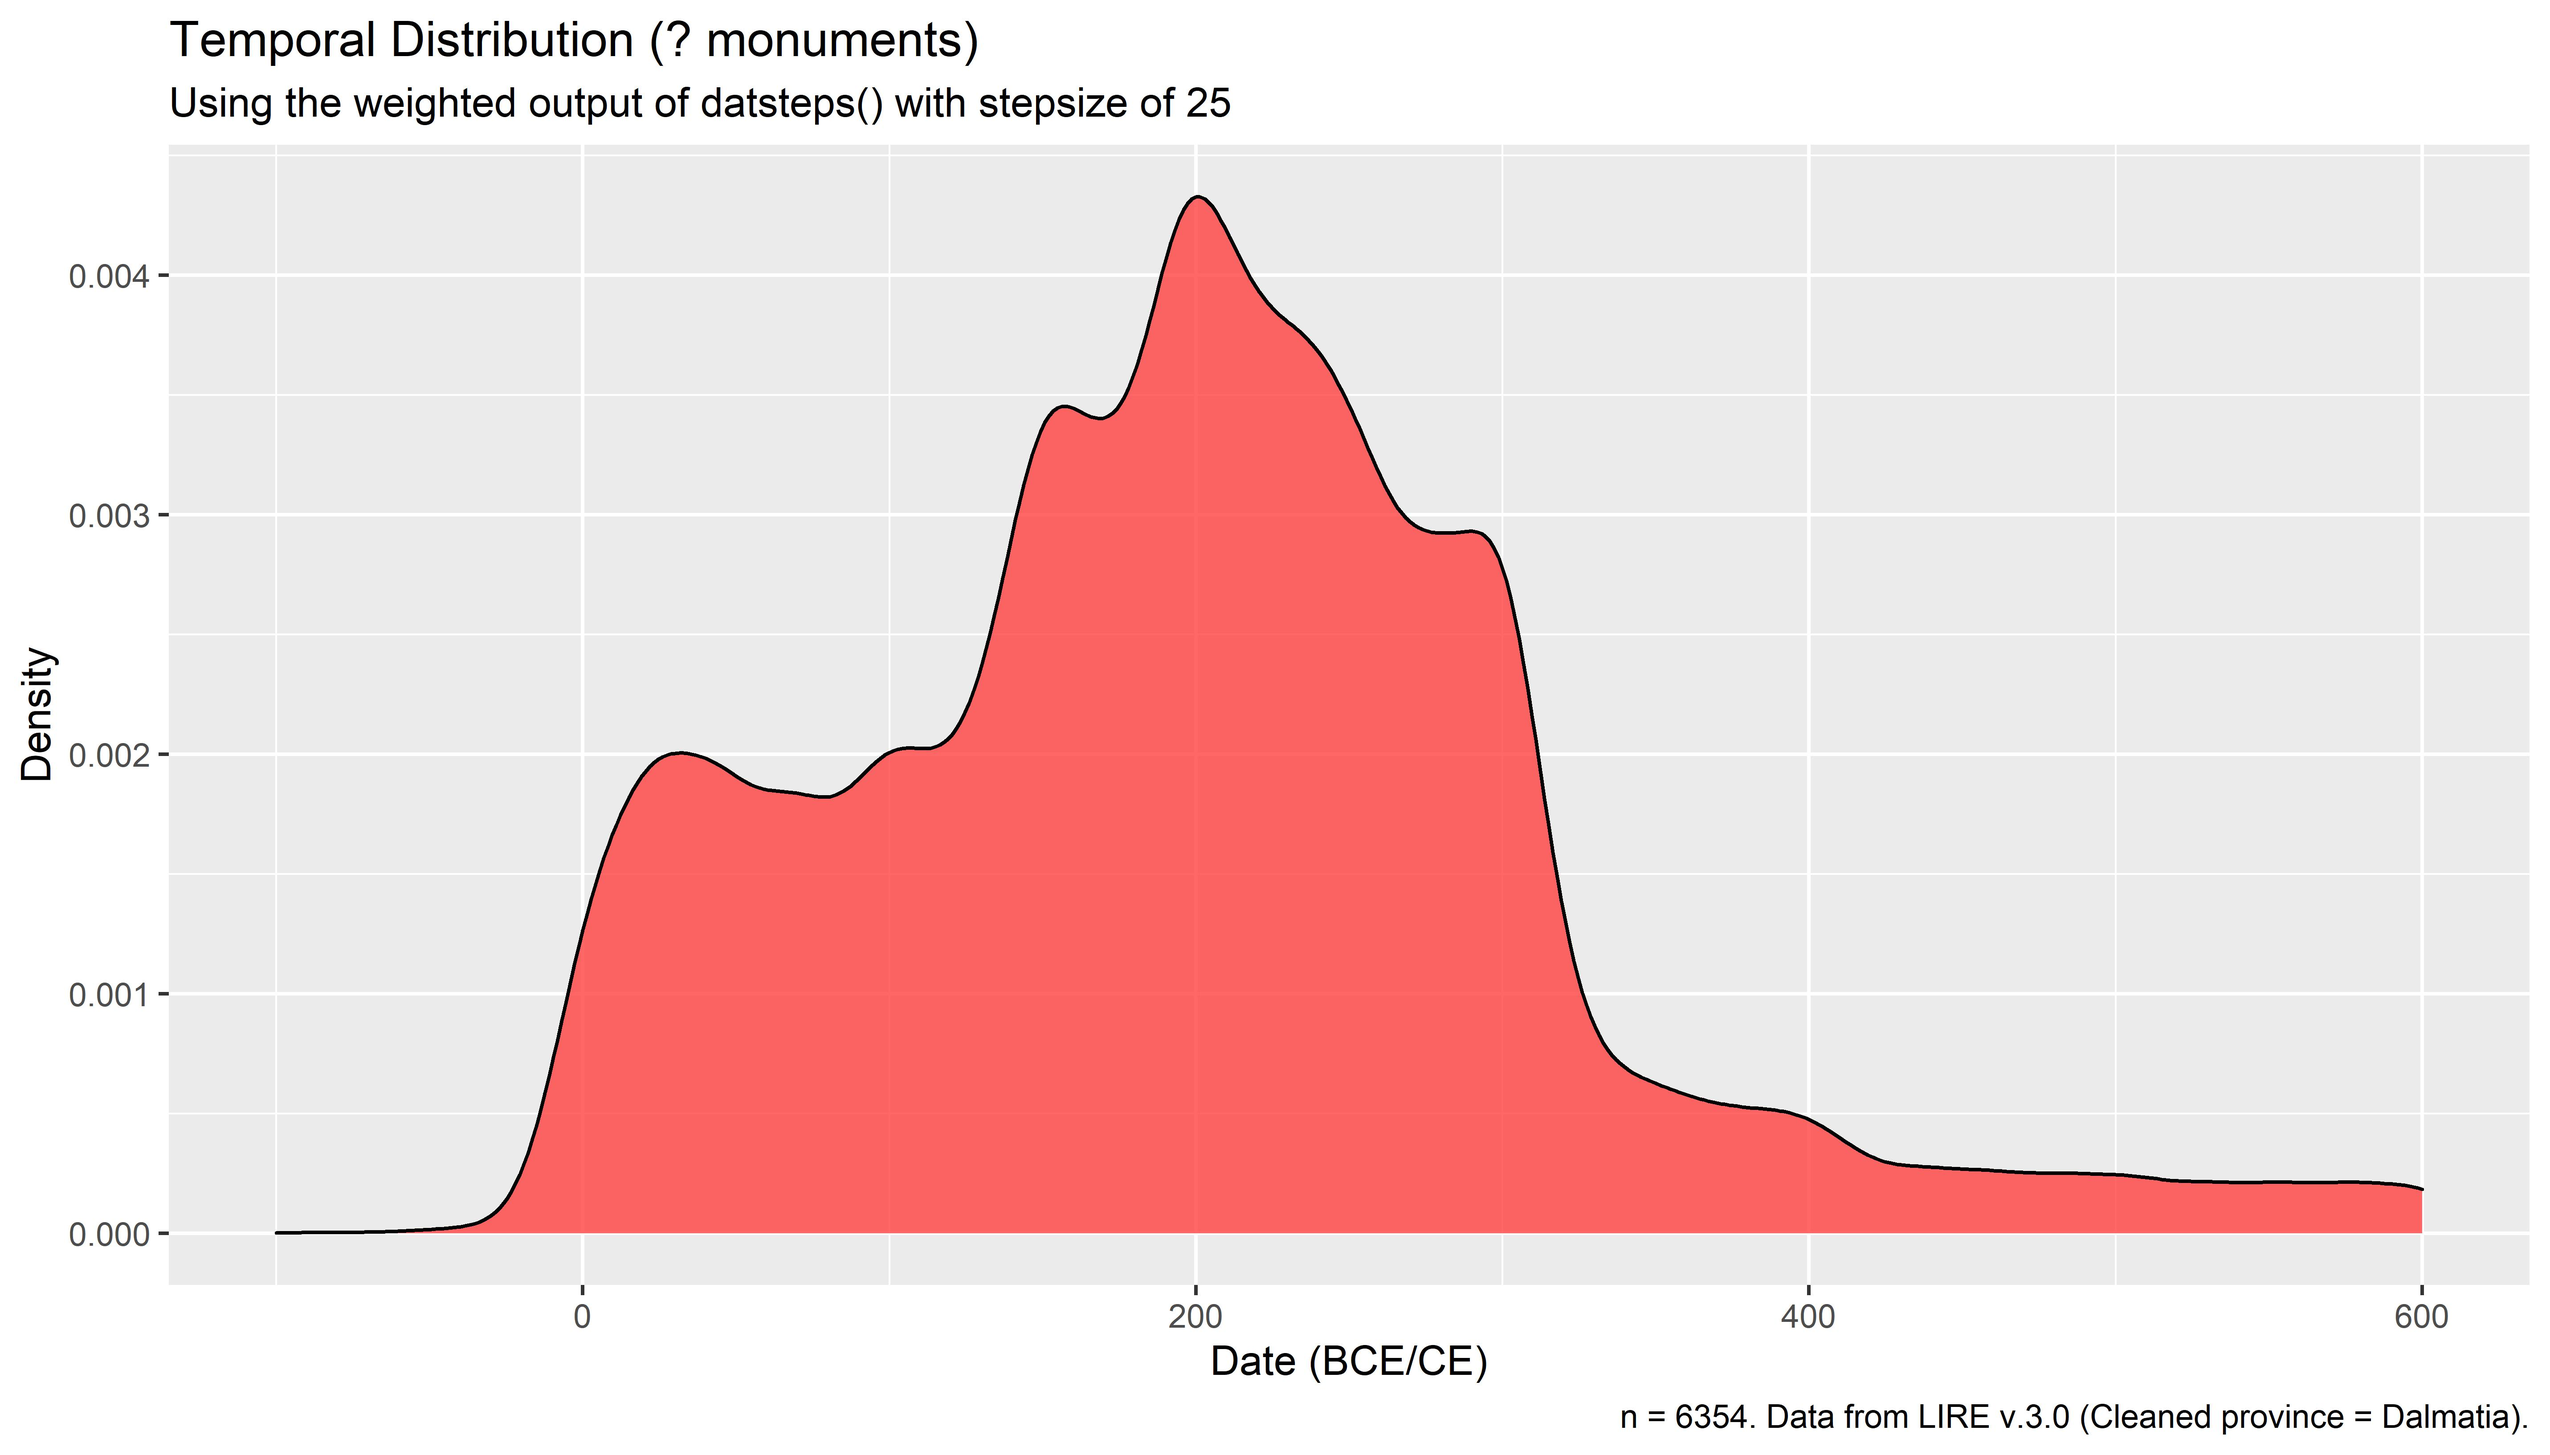
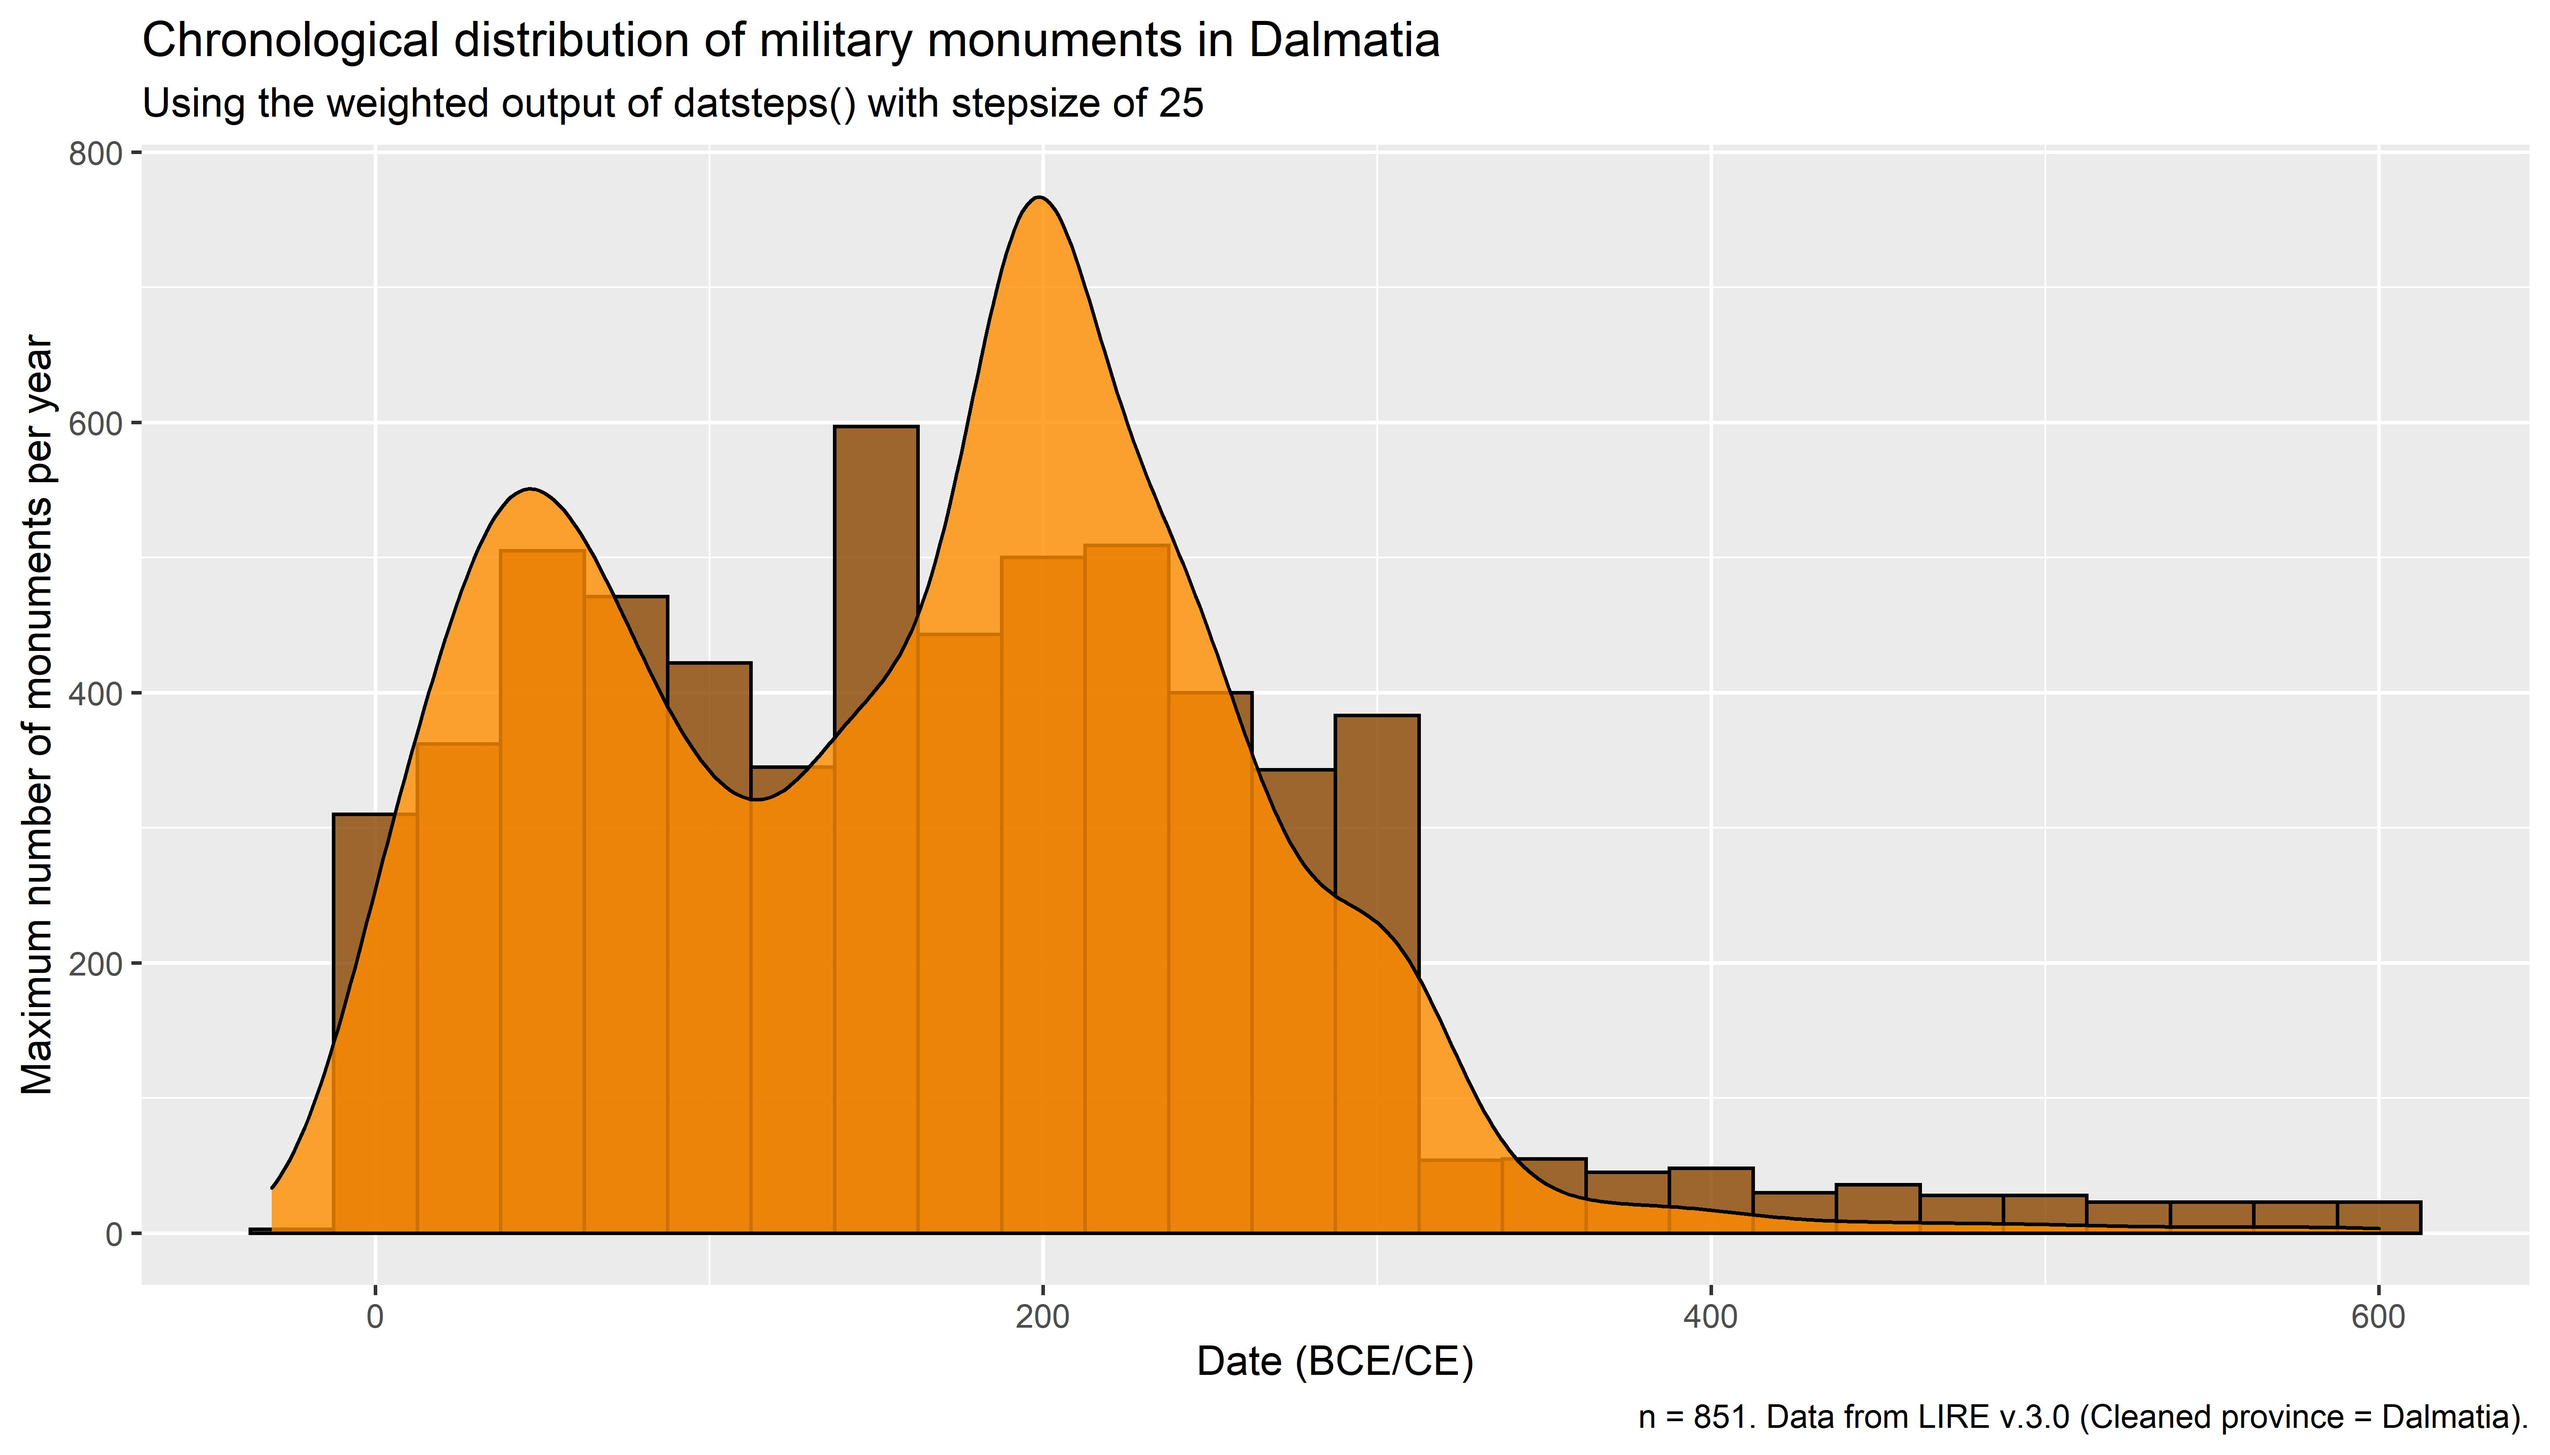
finalised date plots #2

diff --git a/README.md b/README.md
@@ -16,8 +16,8 @@ Repository for data collection, cleaning, and analysis for the 2021-2025 PhD pro
 
 <p> <p/>
 
-![scaled density graph of the distribution of epigraphic monuments in dalmatia with a histograms](output_images/chronological_distribution/epigraphic-distribution-dalmatia.jpeg)
-<figcaption> Scaled density graph of inscribed monuments in Dalmatia with histogram and 5 step size, following Steinmann & Weissova 2021. CC BY-SA 4.0</figcaption> 
+![scaled density graph of the distribution of epigraphic monuments in dalmatia with a histograms](output_images/chronological_distribution/LIRE_clean_corpus_plot_histogram.jpeg)
+<figcaption> Scaled density graph of inscribed military monuments in Dalmatia with histogram, following Steinmann & Weissova 2021. CC BY-SA 4.0</figcaption> 
 <br />
 
 ## Thesis
